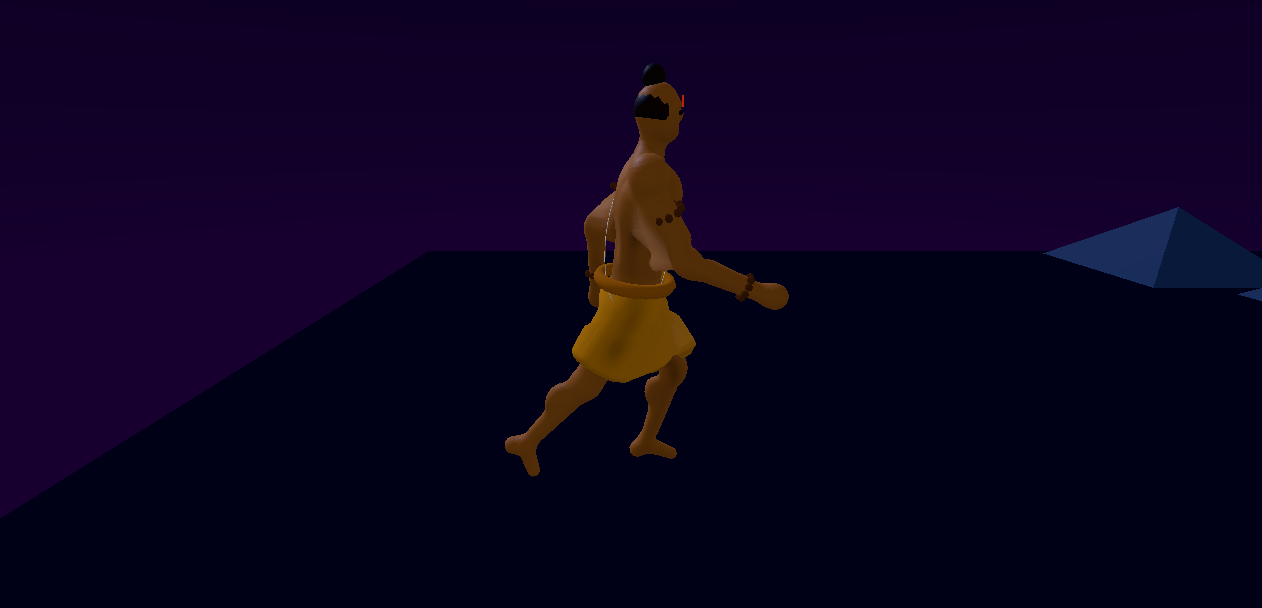
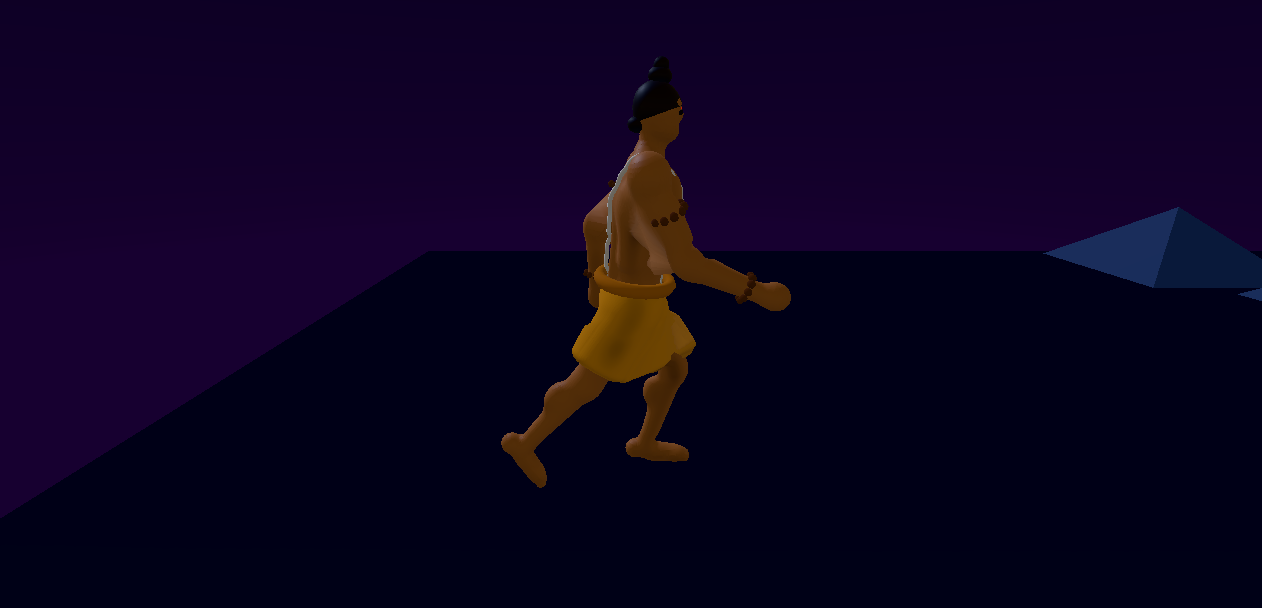
character fixes 2

diff --git a/src/entities/WarriorBody.js b/src/entities/WarriorBody.js
@@ -20,7 +20,7 @@ const HIP = 1.05, KNEE = 0.599, ANKLE = 0.113, SHOULDER = 1.715, HEAD_BONE = 1.8
 
 // Arm chain, hanging with a natural ~12 degree abduction baked into the sculpt
 // (the animation's swings sit on top of it). Left is -x, matching the game.
-const SHO = [0.222, SHOULDER, -0.008];
+const SHO = [0.232, SHOULDER, -0.008];
 const ARM_DIR = [0.208, -0.978, 0];
 const ELB = [SHO[0] + ARM_DIR[0] * 0.42, SHO[1] + ARM_DIR[1] * 0.42, SHO[2]];
 const WRI = [ELB[0] + 0.022, ELB[1] - 0.356, ELB[2] + 0.018];
@@ -41,11 +41,14 @@ function bodyOps() {
 
   /* the back - what the player actually sees */
   for (const s of [-1, 1]) {
-    O(tube(s * 0.035, 1.772, -0.02, s * 0.185, 1.692, -0.03, 0.047, 0.047), 0.045); // trapezius
-    O(orb(s * 0.250, 1.692, -0.005, 0.088), 0.04);                                  // deltoid
-    O(tube(s * 0.185, 1.60, -0.055, s * 0.110, 1.30, -0.035, 0.058, 0.050), 0.05);  // latissimus
-    O(blob(s * 0.088, 1.615, 0.095, 0.082, 0.062, 0.045), 0.04);                    // pectoral
+    O(tube(s * 0.035, 1.772, -0.02, s * 0.195, 1.692, -0.03, 0.052, 0.052), 0.045); // trapezius
+    O(orb(s * 0.264, 1.692, -0.005, 0.094), 0.04);                                  // deltoid
+    O(tube(s * 0.185, 1.60, -0.055, s * 0.110, 1.30, -0.035, 0.063, 0.054), 0.05);  // latissimus
+    O(blob(s * 0.088, 1.615, 0.095, 0.088, 0.066, 0.048), 0.04);                    // pectoral
     O(orb(s * 0.078, 1.015, -0.058, 0.070), 0.05);                                  // glute
+  }
+  for (const s of [-1, 1]) {
+    O(tube(s * 0.038, 1.18, -0.105, s * 0.042, 1.56, -0.112, 0.026, 0.026), 0.04);  // erector ridge
   }
   ops.push(cut(tube(0, 1.16, -0.158, 0, 1.70, -0.188, 0.028, 0.028), 0.05));        // spine groove
 
@@ -61,11 +64,11 @@ function bodyOps() {
     const S = [s * SHO[0], SHO[1], SHO[2]];
     const E = [s * ELB[0], ELB[1], ELB[2]];
     const W = [s * WRI[0], WRI[1], WRI[2]];
-    O(tube(S[0], S[1], S[2], E[0], E[1], E[2], 0.070, 0.056), 0.045);
-    O(orb(S[0] + s * 0.035, S[1] - 0.165, S[2] + 0.02, 0.062), 0.04);  // bicep
-    O(orb(E[0], E[1], E[2], 0.054), 0.03);                              // elbow
-    O(tube(E[0], E[1], E[2], W[0], W[1], W[2], 0.057, 0.038), 0.04);   // forearm (flexor-heavy)
-    O(blob(W[0], W[1] - 0.048, W[2] + 0.012, 0.052, 0.062, 0.058), 0.03); // fist
+    O(tube(S[0], S[1], S[2], E[0], E[1], E[2], 0.079, 0.061), 0.045);
+    O(orb(S[0] + s * 0.035, S[1] - 0.165, S[2] + 0.022, 0.070), 0.04); // bicep
+    O(orb(E[0], E[1], E[2], 0.058), 0.03);                              // elbow
+    O(tube(E[0], E[1], E[2], W[0], W[1], W[2], 0.065, 0.041), 0.04);   // forearm (flexor-heavy)
+    O(blob(W[0], W[1] - 0.048, W[2] + 0.014, 0.058, 0.068, 0.063), 0.03); // fist
   }
 
   /* legs */
@@ -73,14 +76,18 @@ function bodyOps() {
     const H = [s * LEG_X, HIP, 0.004];
     const K = [s * LEG_X, KNEE, 0.010];
     const A = [s * LEG_X, ANKLE, -0.012];
-    O(tube(H[0], H[1], H[2], K[0], K[1], K[2], 0.106, 0.076), 0.05);
-    O(blob(s * LEG_X, 0.86, 0.062, 0.062, 0.10, 0.052), 0.05);          // quadriceps
+    O(tube(H[0], H[1], H[2], K[0], K[1], K[2], 0.112, 0.080), 0.05);
+    O(blob(s * LEG_X, 0.86, 0.064, 0.068, 0.105, 0.056), 0.05);         // quadriceps
     O(orb(K[0], K[1], K[2], 0.070), 0.035);                              // knee
-    O(tube(K[0], K[1], K[2], A[0], A[1], A[2], 0.064, 0.040), 0.04);    // shin
-    O(blob(s * (LEG_X + 0.004), 0.455, -0.052, 0.054, 0.085, 0.054), 0.04); // calf
-    O(orb(A[0], A[1], A[2], 0.042), 0.03);                               // ankle
-    O(tube(A[0], A[1], A[2], s * LEG_X, 0.048, 0.132, 0.046, 0.033), 0.035); // foot
-    O(orb(s * LEG_X, 0.072, -0.055, 0.046), 0.03);                       // heel
+    O(tube(K[0], K[1], K[2], A[0], A[1], A[2], 0.070, 0.044), 0.04);    // shin
+    O(blob(s * (LEG_X + 0.004), 0.455, -0.056, 0.060, 0.092, 0.058), 0.04); // calf
+    O(orb(A[0], A[1], A[2], 0.045), 0.03);                               // ankle
+    O(orb(s * LEG_X, 0.075, -0.072, 0.052), 0.03);                       // heel
+    O(blob(s * LEG_X, 0.062, 0.052, 0.060, 0.050, 0.102), 0.035);        // instep
+    O(blob(s * LEG_X, 0.050, 0.152, 0.064, 0.040, 0.064), 0.03);         // forefoot
+    for (const tx of [-0.030, 0, 0.030]) {
+      O(blob(s * LEG_X + tx, 0.038, 0.206, 0.020, 0.018, 0.026), 0.02);  // toes
+    }
   }
 
   return ops;
@@ -177,7 +184,7 @@ export function buildWarrior() {
     bodySegs[boneIndex['forearm' + side]] = { segs: [seg([s * ELB[0], ELB[1], ELB[2]], [s * WRI[0], WRI[1] - 0.09, WRI[2] + 0.01])] };
     bodySegs[boneIndex['thigh' + side]] = { segs: [seg([s * LEG_X, HIP, 0.004], [s * LEG_X, KNEE, 0.010])] };
     bodySegs[boneIndex['shin' + side]] = { segs: [seg([s * LEG_X, KNEE, 0.010], [s * LEG_X, ANKLE, -0.012])] };
-    bodySegs[boneIndex['foot' + side]] = { segs: [seg([s * LEG_X, ANKLE, -0.012], [s * LEG_X, 0.05, 0.16])] };
+    bodySegs[boneIndex['foot' + side]] = { segs: [seg([s * LEG_X, ANKLE, -0.012], [s * LEG_X, 0.045, 0.20])] };
   }
   const P = (a, b) => [boneIndex[a], boneIndex[b]];
   const bodyPairs = [
@@ -252,19 +259,45 @@ export function buildWarrior() {
   tail.rotation.z = -0.18;
   B.torso.add(tail);
 
-  // Janeu: the sacred thread over the left shoulder, down to the right hip.
-  const janeuGeo = new THREE.TorusGeometry(1, 0.013, 5, 40);
-  janeuGeo.scale(0.155, 0.385, 1);
-  const janeu = new THREE.Mesh(janeuGeo, janeuMat);
+  // Janeu: the sacred thread, over the left shoulder and down to the right
+  // hip. A rigid ellipse plunged inside the chest and only its back arc ever
+  // showed - so instead the loop is TRACED ONTO THE BODY: every point of an
+  // ideal ellipse is walked along the sculpt's own distance field until it
+  // rests a thread's width above the skin (or the cloth, at the hip). The
+  // result hugs shoulder, chest, hip and back exactly like a worn thread.
   {
-    const v = new THREE.Vector3(0.435, 0.90, 0).normalize();   // shoulder-to-hip diagonal
-    const u = new THREE.Vector3(0, 0, 1);
-    const n = new THREE.Vector3().crossVectors(u, v);
-    const m = new THREE.Matrix4().makeBasis(u, v, n);
-    janeu.quaternion.setFromRotationMatrix(m);
+    const surface = (x, y, z) => Math.min(body.sdf(x, y, z), clothBake.sdf(x, y, z));
+    const CLEAR = 0.015;
+    const centre = new THREE.Vector3(-0.012, 1.40, 0.0);
+    const diag = new THREE.Vector3(-0.40, 0.917, 0).normalize();   // up over the LEFT shoulder
+    const points = [];
+    const pt = new THREE.Vector3();
+    for (let i = 0; i < 72; i++) {
+      const t = (i / 72) * Math.PI * 2;
+      pt.copy(centre)
+        .addScaledVector(diag, Math.cos(t) * 0.40)
+        .add(new THREE.Vector3(0, 0, Math.sin(t) * 0.20));
+      for (let k = 0; k < 8; k++) {
+        const d = surface(pt.x, pt.y, pt.z) - CLEAR;
+        if (Math.abs(d) < 0.002) break;
+        const h = 0.008;
+        const gx = surface(pt.x + h, pt.y, pt.z) - surface(pt.x - h, pt.y, pt.z);
+        const gy = surface(pt.x, pt.y + h, pt.z) - surface(pt.x, pt.y - h, pt.z);
+        const gz = surface(pt.x, pt.y, pt.z + h) - surface(pt.x, pt.y, pt.z - h);
+        const gl = Math.sqrt(gx * gx + gy * gy + gz * gz) || 1;
+        const step = Math.max(-0.05, Math.min(0.05, d));
+        pt.x -= (gx / gl) * step;
+        pt.y -= (gy / gl) * step;
+        pt.z -= (gz / gl) * step;
+      }
+      points.push(pt.clone());
+    }
+    const curve = new THREE.CatmullRomCurve3(points, true, 'centripetal');
+    const janeuGeo = new THREE.TubeGeometry(curve, 144, 0.011, 7, true);
+    janeuGeo.translate(0, -HIP, 0);              // into torso-bone space
+    const janeu = new THREE.Mesh(janeuGeo, janeuMat);
+    B.torso.add(janeu);
   }
-  janeu.position.set(-0.015, 0.335, -0.005);
-  B.torso.add(janeu);
 
   // Rudraksha: neck (two loops), both upper arms, both wrists.
   const neckRing = new THREE.Mesh(beadRing(14, 0.088, 0.019), beadMat);
@@ -277,37 +310,50 @@ export function buildWarrior() {
   B.torso.add(neckRing2);
   for (const s of [-1, 1]) {
     const arm = B[s < 0 ? 'upperArmL' : 'upperArmR'];
-    const band = new THREE.Mesh(beadRing(10, 0.068, 0.017), beadMat);
+    const band = new THREE.Mesh(beadRing(11, 0.078, 0.018), beadMat);
     band.position.set(s * (ELB[0] - SHO[0]) * 0.45, (ELB[1] - SHO[1]) * 0.45, 0.002);
     band.rotation.z = s * -0.21;
     arm.add(band);
     const fore = B[s < 0 ? 'forearmL' : 'forearmR'];
-    const wrist = new THREE.Mesh(beadRing(9, 0.050, 0.015), beadMat);
+    const wrist = new THREE.Mesh(beadRing(10, 0.058, 0.016), beadMat);
     wrist.position.set(s * (WRI[0] - ELB[0]) * 0.76, (WRI[1] - ELB[1]) * 0.76, 0.010);
     fore.add(wrist);
   }
 
-  // Hair: a cap over the skull, the topknot bun and its tie.
-  const cap = new THREE.Mesh(
-    new THREE.SphereGeometry(0.104, 14, 10, 0, Math.PI * 2, 0, Math.PI * 0.62), hairMat
-  );
-  cap.position.set(0, 0.108, -0.008);
+  // Hair: pulled tight over the skull into a high crown bun - a thin cap
+  // that hugs the head, a mass at the nape where the hair gathers, and a
+  // two-tier bun sitting ON the crown with a bead tie at its base.
+  // The cap is the SKULL'S OWN ellipsoid, grown a few millimetres and tilted
+  // so the hairline sits high on the forehead and low at the nape - a sphere
+  // cap of any single radius either exposes the crown or swallows the face.
+  const capGeo = new THREE.SphereGeometry(1, 18, 12, 0, Math.PI * 2, 0, Math.PI * 0.55);
+  capGeo.scale(0.106, 0.126, 0.112);
+  const cap = new THREE.Mesh(capGeo, hairMat);
+  cap.position.set(0, 0.112, -0.002);
+  cap.rotation.x = -0.45;
   cap.castShadow = true;
   B.head.add(cap);
-  const bun = new THREE.Mesh(new THREE.SphereGeometry(0.055, 10, 8), hairMat);
-  bun.scale.set(1, 1.08, 1);
-  bun.position.set(0, 0.242, -0.035);
-  bun.castShadow = true;
-  B.head.add(bun);
-  const tie = new THREE.Mesh(new THREE.TorusGeometry(0.030, 0.010, 5, 10), beadMat);
+  const nape = new THREE.Mesh(new THREE.SphereGeometry(0.050, 10, 8), hairMat);
+  nape.scale.set(1.25, 0.75, 0.9);
+  nape.position.set(0, 0.038, -0.086);
+  B.head.add(nape);
+  const bunBase = new THREE.Mesh(new THREE.SphereGeometry(0.050, 10, 8), hairMat);
+  bunBase.scale.set(1.12, 0.82, 1.12);
+  bunBase.position.set(0, 0.252, -0.010);
+  bunBase.castShadow = true;
+  B.head.add(bunBase);
+  const bunTop = new THREE.Mesh(new THREE.SphereGeometry(0.036, 9, 7), hairMat);
+  bunTop.position.set(0, 0.296, -0.010);
+  B.head.add(bunTop);
+  const tie = new THREE.Mesh(new THREE.TorusGeometry(0.033, 0.009, 5, 12), beadMat);
   tie.geometry.rotateX(Math.PI / 2);
-  tie.position.set(0, 0.198, -0.033);
+  tie.position.set(0, 0.222, -0.009);
   B.head.add(tie);
 
   // Face marks: tilak and eyes. Small, but they stop the head reading blank
   // on the start screen.
   const tilak = new THREE.Mesh(new THREE.BoxGeometry(0.016, 0.05, 0.008), tilakMat);
-  tilak.position.set(0, 0.162, 0.104);
+  tilak.position.set(0, 0.128, 0.103);
   tilak.rotation.x = -0.12;
   B.head.add(tilak);
   for (const s of [-1, 1]) {

diff --git a/src/entities/Player.js b/src/entities/Player.js
@@ -116,6 +116,7 @@ const trailGhosts = [];
 const trailHistory = [];
 let trailCursor = 0;
 let hitFlash = 0;
+let slideDrop = 0;
 
 // Builds the devotee, caches his joints and hangs Vishnu's shield on him.
 export function createPlayer(scene, gameClock) {
@@ -373,9 +374,11 @@ function animateRun(time, dt) {
   parts.leftLowerArm.rotation.x = -0.55 - swingForward(t + Math.PI + 0.6, 0.45);
   parts.rightLowerArm.rotation.x = -0.55 - swingForward(t + 0.6, 0.45);
 
-  // A sprinter's arms travel slightly across the body, not straight fore-aft
-  parts.leftUpperArm.rotation.z = 0.13 + swing(t + Math.PI, 0.08);
-  parts.rightUpperArm.rotation.z = -0.13 + swing(t, 0.08);
+  // Arms carried slightly OUT from the lats, swaying with the stride.
+  // Carrying them across the body pressed them into the torso and made the
+  // two arms read as different sizes mid-swing.
+  parts.leftUpperArm.rotation.z = -0.06 + swing(t + Math.PI, 0.06);
+  parts.rightUpperArm.rotation.z = 0.06 + swing(t, 0.06);
 
   // Ankles roll through the stride
   parts.leftFoot.rotation.x = swing(t + 0.9, 0.25);
@@ -400,25 +403,29 @@ function animateRun(time, dt) {
   prevStride = stride;
 }
 
-// Airborne: arms up, knees tucked, eased in so it does not snap.
+// Airborne: a hero leap. Arms raised and SPREAD - the old pose swung them
+// behind the torso, where the chase camera lost them. One knee drives up,
+// the trailing leg kicks back, the chest opens.
 function animateJump(dt) {
   const rate = 12;
-  parts.leftUpperArm.rotation.x = approach(parts.leftUpperArm.rotation.x, -0.8, rate, dt);
-  parts.rightUpperArm.rotation.x = approach(parts.rightUpperArm.rotation.x, -0.8, rate, dt);
-  parts.leftLowerArm.rotation.x = approach(parts.leftLowerArm.rotation.x, -0.5, rate, dt);
-  parts.rightLowerArm.rotation.x = approach(parts.rightLowerArm.rotation.x, -0.5, rate, dt);
+  parts.leftUpperArm.rotation.x = approach(parts.leftUpperArm.rotation.x, -0.55, rate, dt);
+  parts.rightUpperArm.rotation.x = approach(parts.rightUpperArm.rotation.x, -0.55, rate, dt);
+  parts.leftLowerArm.rotation.x = approach(parts.leftLowerArm.rotation.x, -0.35, rate, dt);
+  parts.rightLowerArm.rotation.x = approach(parts.rightLowerArm.rotation.x, -0.35, rate, dt);
+  parts.leftUpperArm.rotation.z = approach(parts.leftUpperArm.rotation.z, -0.7, rate, dt);
+  parts.rightUpperArm.rotation.z = approach(parts.rightUpperArm.rotation.z, 0.7, rate, dt);
 
-  parts.leftUpperLeg.rotation.x = approach(parts.leftUpperLeg.rotation.x, 0.6, rate, dt);
-  parts.rightUpperLeg.rotation.x = approach(parts.rightUpperLeg.rotation.x, 0.6, rate, dt);
-  parts.leftLowerLeg.rotation.x = approach(parts.leftLowerLeg.rotation.x, 0.9, rate, dt);
-  parts.rightLowerLeg.rotation.x = approach(parts.rightLowerLeg.rotation.x, 0.9, rate, dt);
+  parts.leftUpperLeg.rotation.x = approach(parts.leftUpperLeg.rotation.x, -0.85, rate, dt);
+  parts.rightUpperLeg.rotation.x = approach(parts.rightUpperLeg.rotation.x, 0.35, rate, dt);
+  parts.leftLowerLeg.rotation.x = approach(parts.leftLowerLeg.rotation.x, 0.75, rate, dt);
+  parts.rightLowerLeg.rotation.x = approach(parts.rightLowerLeg.rotation.x, 1.05, rate, dt);
+  parts.leftFoot.rotation.x = approach(parts.leftFoot.rotation.x, 0.35, rate, dt);
+  parts.rightFoot.rotation.x = approach(parts.rightFoot.rotation.x, 0.45, rate, dt);
 
-  parts.torso.rotation.x = approach(parts.torso.rotation.x, -0.05, rate, dt);
+  parts.torso.rotation.x = approach(parts.torso.rotation.x, -0.08, rate, dt);
   parts.torso.rotation.z = approach(parts.torso.rotation.z, 0, rate, dt);
   parts.torso.rotation.y = approach(parts.torso.rotation.y, 0, rate, dt);
   parts.torso.position.y = approach(parts.torso.position.y, HIP_Y, rate, dt);
-  parts.leftUpperArm.rotation.z = approach(parts.leftUpperArm.rotation.z, 0.2, rate, dt);
-  parts.rightUpperArm.rotation.z = approach(parts.rightUpperArm.rotation.z, -0.2, rate, dt);
   parts.head.rotation.y = approach(parts.head.rotation.y, 0, rate, dt);
   parts.head.position.y = approach(parts.head.position.y, HEAD_Y - HIP_Y, rate, dt);
 }
@@ -431,17 +438,17 @@ function animateSlide(dt) {
   parts.leftLowerLeg.rotation.x = approach(parts.leftLowerLeg.rotation.x, 0.2, rate, dt);
   parts.rightLowerLeg.rotation.x = approach(parts.rightLowerLeg.rotation.x, 0.25, rate, dt);
 
-  parts.leftUpperArm.rotation.x = approach(parts.leftUpperArm.rotation.x, 0.9, rate, dt);
-  parts.rightUpperArm.rotation.x = approach(parts.rightUpperArm.rotation.x, -0.4, rate, dt);
-  parts.leftLowerArm.rotation.x = approach(parts.leftLowerArm.rotation.x, -0.3, rate, dt);
-  parts.rightLowerArm.rotation.x = approach(parts.rightLowerArm.rotation.x, -0.3, rate, dt);
+  parts.leftUpperArm.rotation.x = approach(parts.leftUpperArm.rotation.x, 0.35, rate, dt);
+  parts.rightUpperArm.rotation.x = approach(parts.rightUpperArm.rotation.x, 0.35, rate, dt);
+  parts.leftLowerArm.rotation.x = approach(parts.leftLowerArm.rotation.x, -0.25, rate, dt);
+  parts.rightLowerArm.rotation.x = approach(parts.rightLowerArm.rotation.x, -0.25, rate, dt);
 
-  parts.torso.rotation.x = approach(parts.torso.rotation.x, -0.6, rate, dt);
+  parts.torso.rotation.x = approach(parts.torso.rotation.x, -0.45, rate, dt);
   parts.torso.rotation.z = approach(parts.torso.rotation.z, 0, rate, dt);
   parts.torso.rotation.y = approach(parts.torso.rotation.y, 0, rate, dt);
   parts.torso.position.y = approach(parts.torso.position.y, HIP_Y, rate, dt);
-  parts.leftUpperArm.rotation.z = approach(parts.leftUpperArm.rotation.z, 0.25, rate, dt);
-  parts.rightUpperArm.rotation.z = approach(parts.rightUpperArm.rotation.z, -0.25, rate, dt);
+  parts.leftUpperArm.rotation.z = approach(parts.leftUpperArm.rotation.z, -0.55, rate, dt);
+  parts.rightUpperArm.rotation.z = approach(parts.rightUpperArm.rotation.z, 0.55, rate, dt);
   parts.head.rotation.y = approach(parts.head.rotation.y, 0, rate, dt);
   parts.head.position.y = approach(parts.head.position.y, HEAD_Y - HIP_Y, rate, dt);
 }
@@ -499,14 +506,13 @@ function updatePlayer(dt) {
     }
   }
 
-  // Position Root. Sliding squashes the whole figure to half height and drops
-  // it half a unit, easing back over the slide's tail.
-  const targetSquash = state.isSliding ? 0.5 : 1.0;
-  player.scale.y = approach(player.scale.y, targetSquash, 14, dt);
+  // Position Root. Sliding used to SCALE the figure to half height, which
+  // flattened the sculpted body into paper. Now the hips drop instead: the
+  // torso and both thigh roots sink together after the pose writes, the legs
+  // fold forward, and the mesh keeps its volume all the way down.
+  const targetDrop = state.isSliding ? 0.42 : 0;
+  slideDrop = approach(slideDrop, targetDrop, 14, dt);
   player.position.y = state.playerY;
-
-  // Keep the shield a sphere while the body squashes underneath it
-  if (shieldMesh && player.scale.y > 0.01) shieldMesh.scale.y = 1 / player.scale.y;
 
   updateTrail();
 
@@ -519,6 +525,13 @@ function updatePlayer(dt) {
     } else {
       animateRun(clock.getElapsedTime(), dt);
     }
+
+    // The slide drop, applied AFTER the pose writes (they set absolute
+    // heights). The thigh roots are root-level bones, so they sink explicitly
+    // and rise back to HIP_Y as the drop eases out.
+    parts.torso.position.y -= slideDrop;
+    parts.leftUpperLeg.position.y = HIP_Y - slideDrop;
+    parts.rightUpperLeg.position.y = HIP_Y - slideDrop;
 
     updateDust(dt, state.isGrounded && !state.isSliding);
   }
